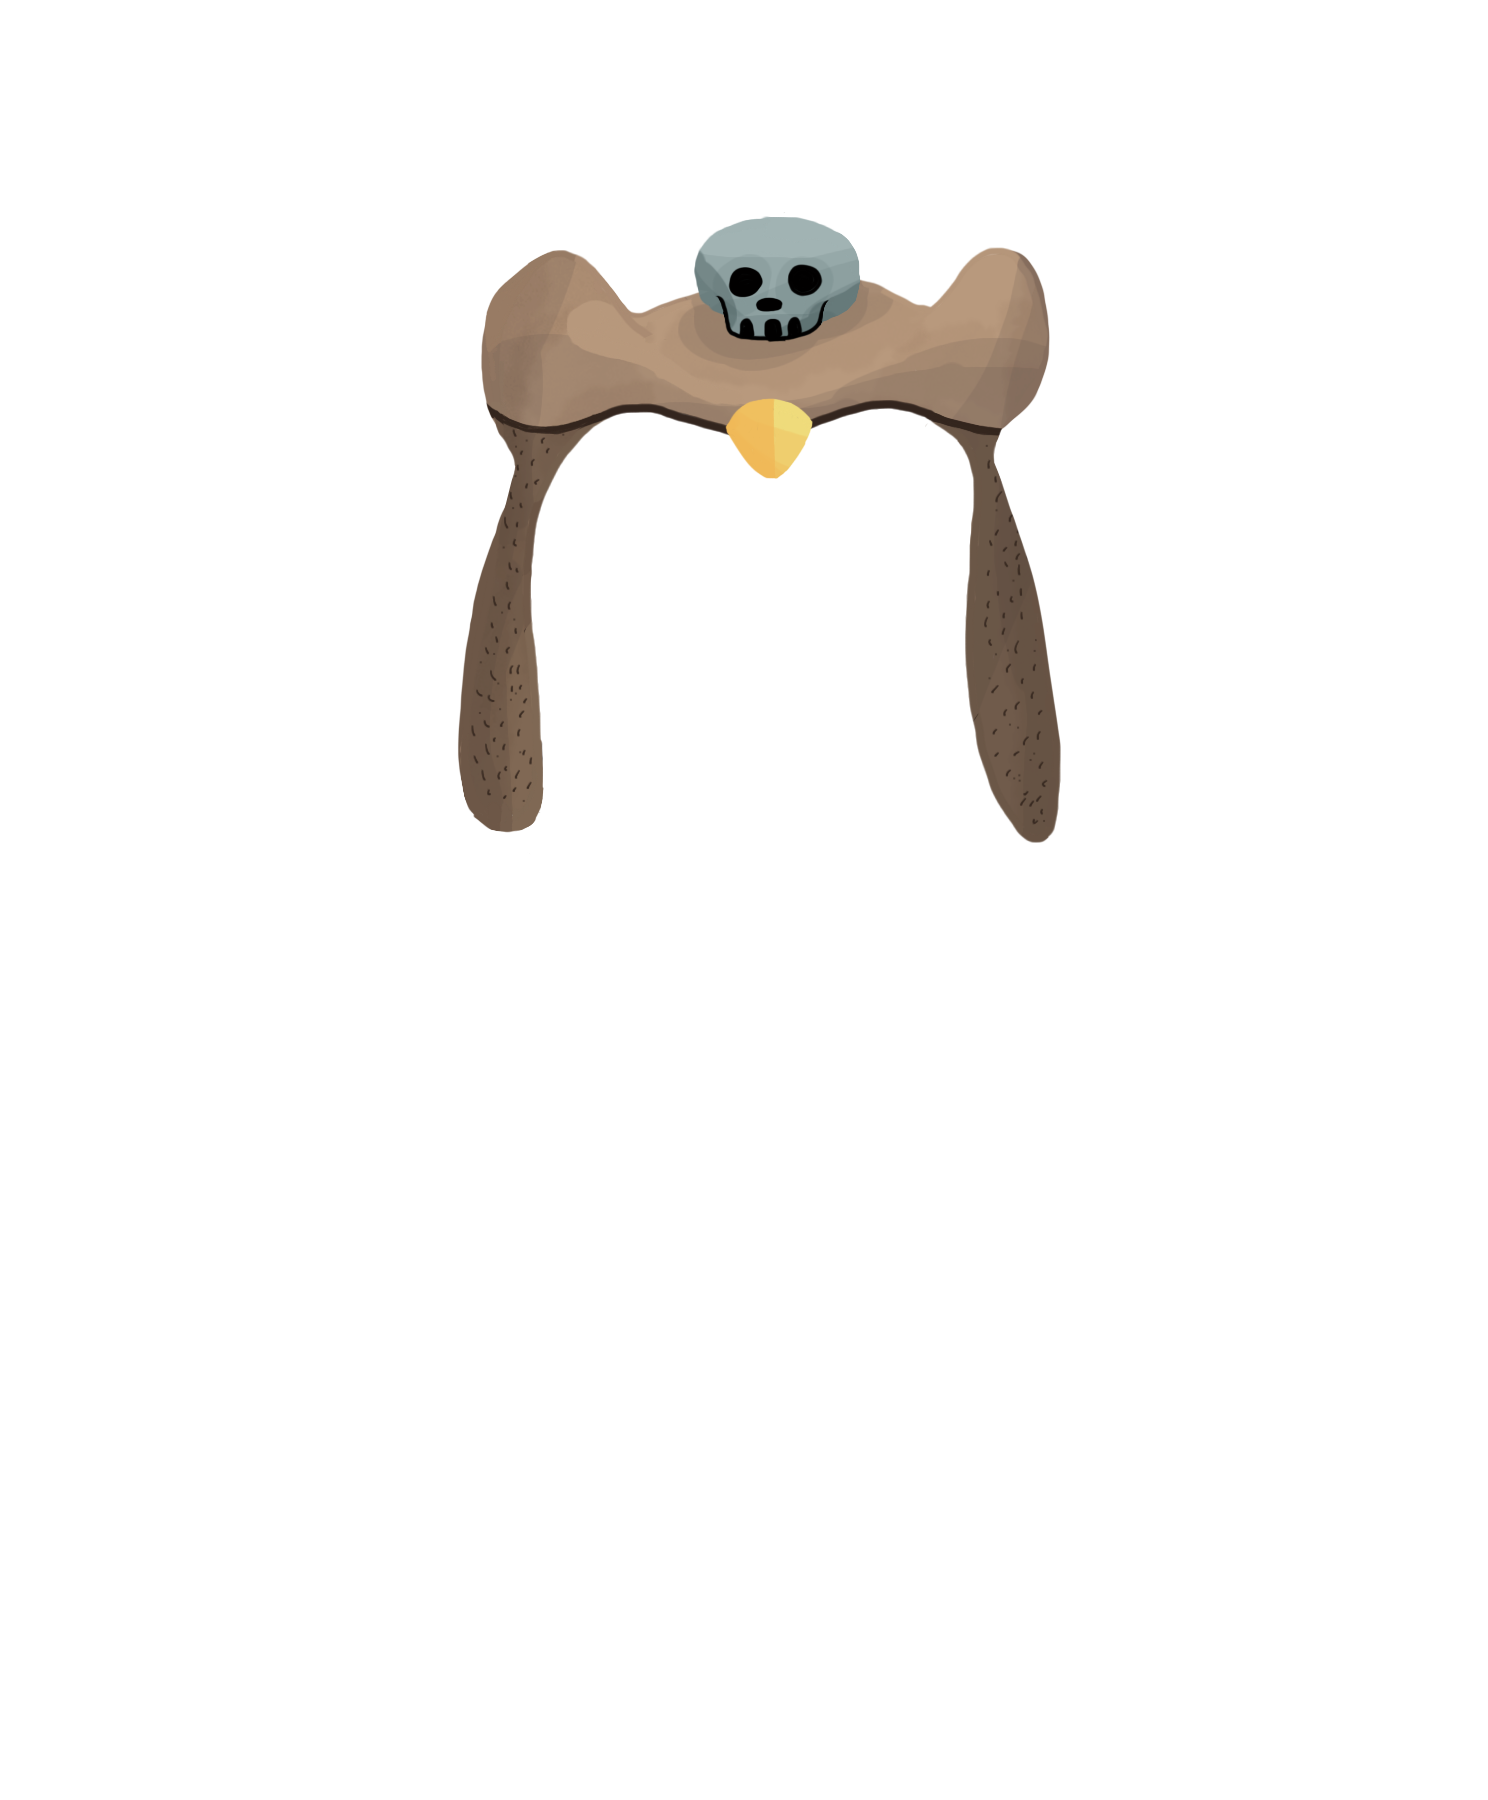
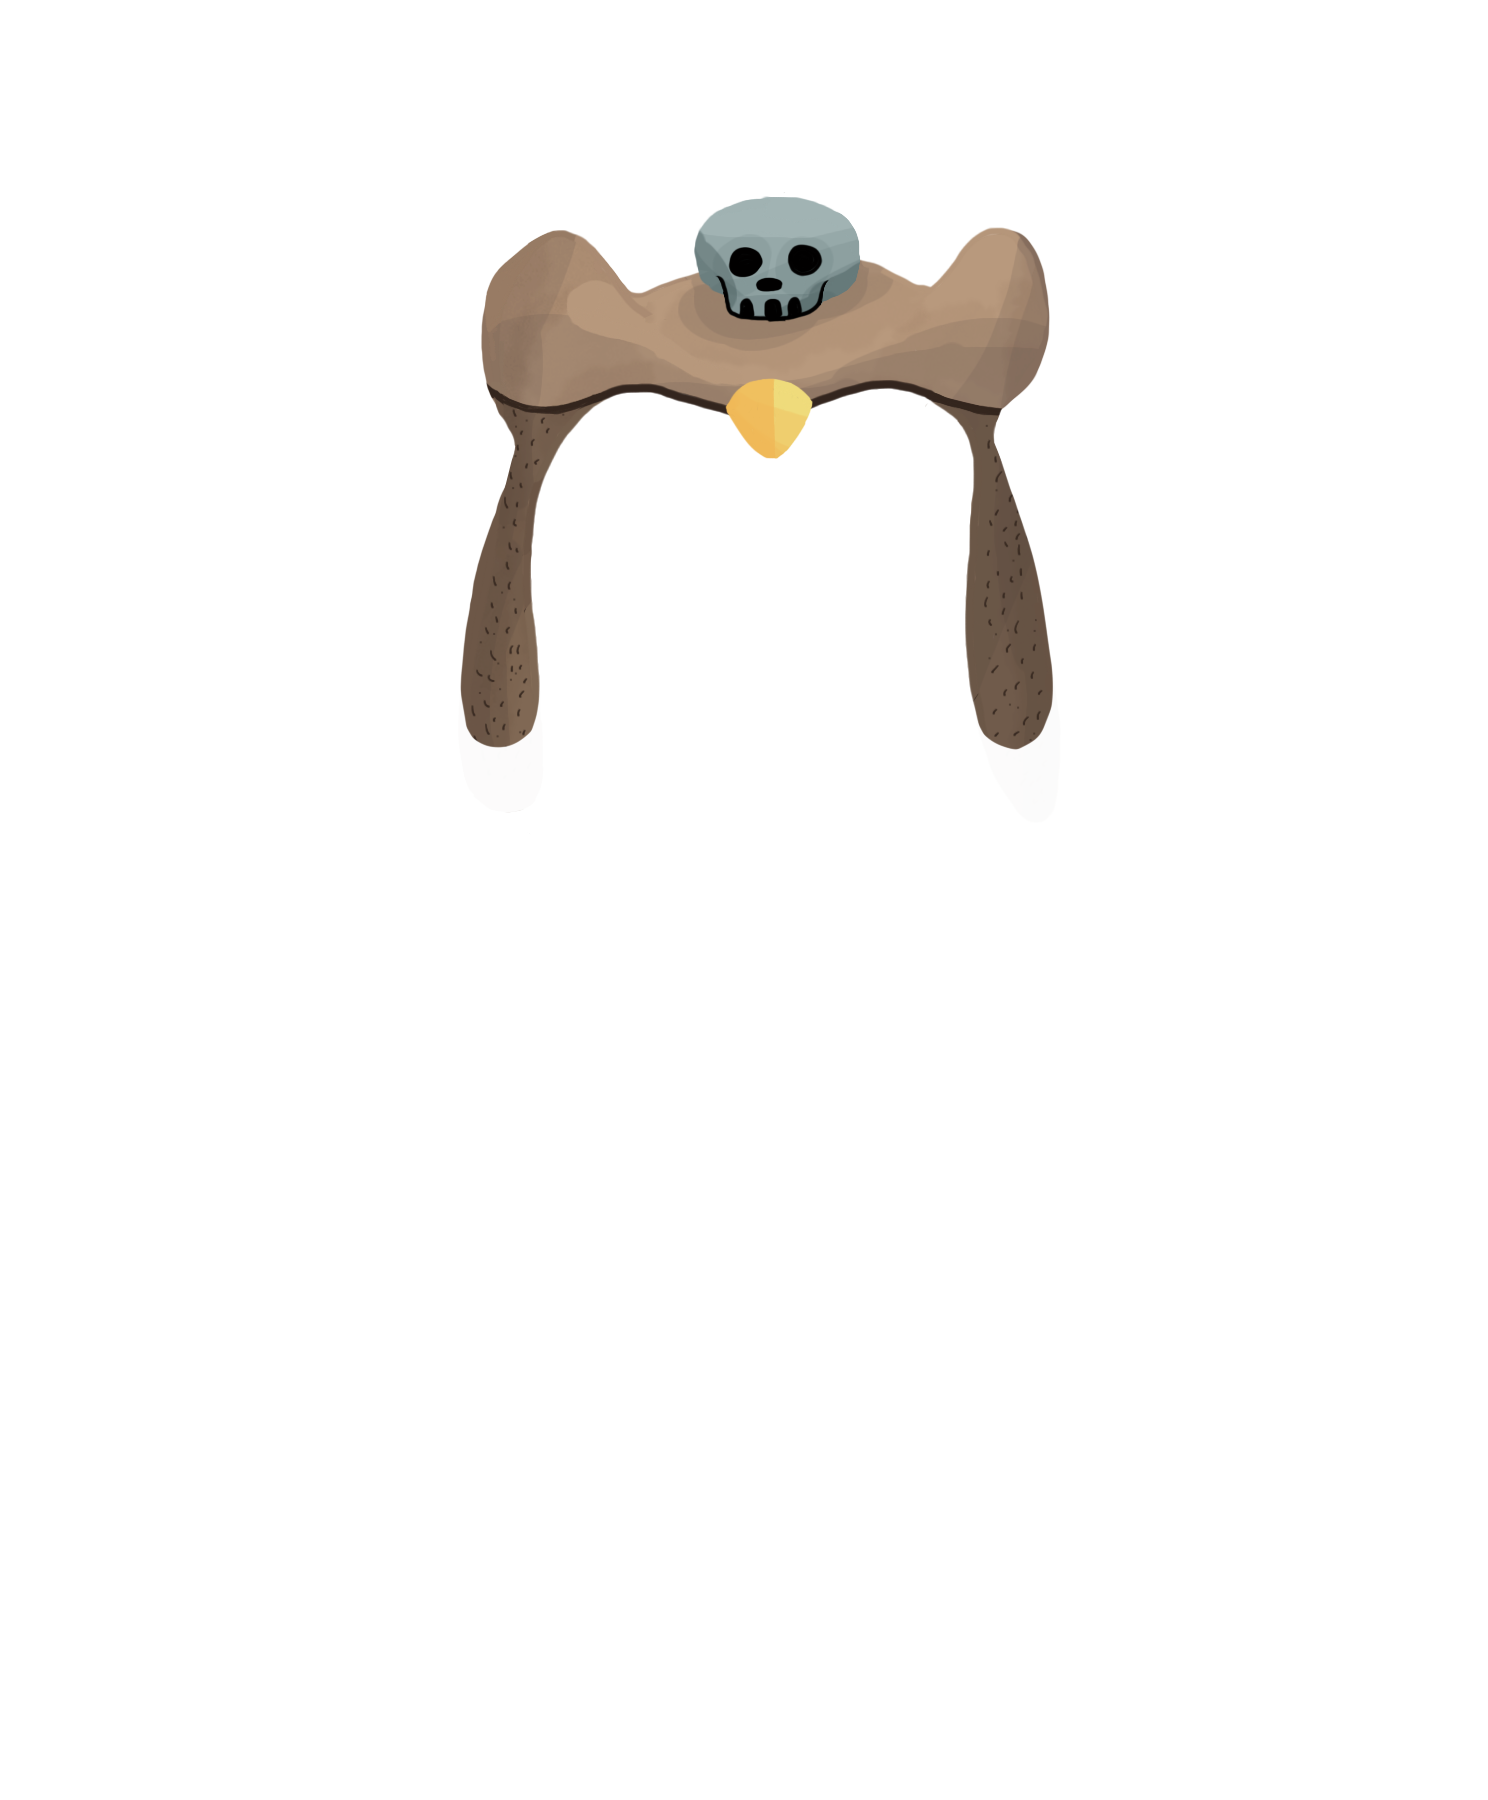
Add Snoop's hair

Changed region(s): [[0.3091, 0.0933, 0.711, 0.4667], [0.6492, 0.28, 0.711, 0.4667], [0.3091, 0.1556, 0.3401, 0.1867]]

diff --git a/2422.js b/2422.js
@@ -101,7 +101,8 @@ const losOsosSchema = {
                             asset: "./assets/eyes_heterochromatic.png",
                             chance: 10
                         },
-                    ]
+                    ],
+                    chance: 0.5,
                 },
                 { 
                     type: "options",
@@ -163,6 +164,7 @@ const losOsosSchema = {
                 { 
                     type: "options",
                     name: "Serious", 
+                    chance: 0.5,
                     options: [
                         { 
                             type: "front",
@@ -214,6 +216,7 @@ const losOsosSchema = {
                         "./assets/empty.png",
                         { image: "./assets/occupation_mecha_bear_lights.png", tint: true },
                     ],
+                    chance: 0.7,
                 },
                 { 
                     name: "Sabler scarf",
@@ -225,6 +228,7 @@ const losOsosSchema = {
                         { image: "./assets/occupation_sabler_monk.png", tint: false, },
                         { image: "./assets/occupation_sabler_monk_back.png", tint: false, },
                     ],
+                    chance: 0.8,
                 },
                 {
                     name: "The Hero",
@@ -234,6 +238,7 @@ const losOsosSchema = {
                         { image: "./assets/occupation_the_hero_back.png", level: -900 },
                         { image: "./assets/occupation_the_hero_horse.png", level: 900 },
                     ],
+                    chance: 0.3,
                 },
                 { 
                     name: "Singlet",
@@ -282,9 +287,10 @@ const losOsosSchema = {
                     name: "Bearstappen",
                     type: "dual",
                     assets: [ "./assets/occupation_racer.png", "./assets/occupation_racer_back.png" ],
+                    chance: 0.7,
                 },
                 {
-                    name: "Metabears United player",
+                    name: "Metabears United",
                     type: "dual",
                     assets: [ "./assets/occupation_mufc.png", "./assets/occupation_mufc_back.png" ],
                     chance: 0.4,
@@ -293,6 +299,7 @@ const losOsosSchema = {
                     name: "William Mapan hoodie",
                     type: "options",
                     level: 275,
+                    chance: 0.7,
                     options: [
                         {
                             type: "dual",
@@ -408,42 +415,13 @@ const losOsosSchema = {
                     ],
                 },
                 {
-                    name: "Jacket",
-                    type: "dual",
-                    tints: ["#3fb033", "#d12727", "#46e3ff", "#f5d10a" ],
-                    chance: 0,
-                    assets: [ 
-                        { image: "./assets/occupation_jacket.png", tint: true },
-                        { image: "./assets/occupation_jacket_back.png", tint: true },
-                        { image: "./assets/occupation_jacket_patches.png", tint: ["#9e7c5e" ] },
-                        "./assets/empty.png",
-                        { image: "./assets/occupation_jacket_thick_stripes.png", tint: ["#111111" ] },
-                        "./assets/empty.png",
-                        "./assets/occupation_jacket_zip.png",
-                    ],
-                },
-                {
                     name: "Shirt",
                     type: "dual",
-                    chance: 0,
+                    chance: 0.1,
                     assets: [ 
                         { image: "./assets/occupation_citizen1_for_tinting.png", tint: true, }, 
                         { image: "./assets/occupation_citizen1_back.png", tint: true, },
                         { image: "./assets/occupation_citizen1_buttons.png", tint: false, }
-                    ],
-                },
-                {
-                    name: "T-shirt",
-                    type: "options",
-                    chance: 0,
-                    options: [
-                        {
-                            type: "dual",
-                            assets: [ 
-                                { image: "./assets/occupation_tshirt_white.png", tint: true }, 
-                                { image: "./assets/occupation_creator_back.png", tint: true },
-                            ],
-                        },
                     ],
                 },
                 {
@@ -456,9 +434,8 @@ const losOsosSchema = {
                     ],
                 },
                 {
-                    type: "dual",
-                    chance: 0.9,
                     name: "Nudoru shirt",
+                    type: "dual",
                     tints: [ "#eeeae4", "#bee8f9", "#c1e2b8", "#ffdeca" ],
                     assets: [ 
                         { image: "./assets/occupation_citizen1_for_tinting.png", tint: true, }, 
@@ -512,6 +489,7 @@ const losOsosSchema = {
                         "./assets/empty.png",
                         "./assets/occupation_tshirt_white_lines.png",
                     ],
+                    chance: 0.5,
                 },
                 {
                     name: "OG t-shirt & Glomularus",
@@ -558,15 +536,27 @@ const losOsosSchema = {
                         { image: "./assets/occupation_creator_back.png", tint: true, }, 
                         "./assets/occupation_inefable_momento.png",
                     ],
+                    chance: 0.7,
                 },
                 {
                     name: "p5.js fan",
                     type: "dual",
                     tints: [ "#eeeae4" ],
+                    chance: 0.6,
                     assets: [ 
                         { image: "./assets/occupation_tshirt_white.png", tint: true, },
                         { image: "./assets/occupation_creator_back.png", tint: true, }, 
                         "./assets/occupation_p5js.png",
+                    ],
+                },
+                {
+                    name: "Santiago's PSA t-shirt",
+                    type: "dual",
+                    tints: [ "#04a30f" ],
+                    assets: [ 
+                        { image: "./assets/occupation_tshirt_white.png", tint: true, },
+                        { image: "./assets/occupation_creator_back.png", tint: true, }, 
+                        "./assets/occupation_santiago.png",
                     ],
                 },
                 {
@@ -587,9 +577,10 @@ const losOsosSchema = {
                     ],
                 },
                 {
-                    name: "Picasso",
+                    name: "Picasso playing with lights",
                     type: "dual",
                     tints: [ "#eeeae4" ],
+                    chance: 0.2,
                     assets: [ 
                         { image: "./assets/occupation_tshirt_white.png", tint: true, },
                         { image: "./assets/occupation_creator_back.png", tint: true, }, 
@@ -608,7 +599,7 @@ const losOsosSchema = {
                         "./assets/occupation_art_basel.png",
                         "./assets/empty.png", 
                         "./assets/occupation_tshirt_white_lines.png",
-                    ]
+                    ],
                 },
                 {
                     name: "VGA t-shirt",
@@ -651,6 +642,7 @@ const losOsosSchema = {
                         { image: "./assets/occupation_creator_back.png", tint: "#0000ff", }, 
                         { image: "./assets/occupation_p1xelfool.png" },
                     ],
+                    chance: 0.4,
                 },
                 {
                     name: "Three.js fan",
@@ -663,11 +655,12 @@ const losOsosSchema = {
                         "./assets/empty.png",
                         "./assets/occupation_tshirt_white_lines.png",
                         "./assets/empty.png",
-
+                        
                         { image: "./assets/occupation_jacket.png", tint: true },
                         { image: "./assets/occupation_jacket_back.png", tint: true },
                         "./assets/occupation_jacket_zip.png",
                     ],
+                    chance: 0.5,
                 },
                 {
                     name: "Horizontes t-shirt",
@@ -842,13 +835,22 @@ const losOsosSchema = {
                     ]
                 },
                 {
+                    name: "Snoop's hair",
+                    type: "front",
+                    assets: [
+                        "./assets/headwear_snoop.png",
+                        { image: "./assets/headwear_snoop_back.png", level: -55 },
+                    ],
+                    chance: 0.3,
+                },
+                {
                     name: "Stoopid DIY mask",
                     type: "dual",
                     assets: [
                         "./assets/headwear_stoopid_mask.png",
                         "./assets/headwear_stoopid_mask_back.png",
                     ],
-                    chance: 1000,
+                    chance: 0.3,
                     level: 850,
                 },
                 {
@@ -1032,7 +1034,7 @@ const losOsosSchema = {
                     chance: 0.5,
                 },
                 {
-                    name: "RIGHT CLICK SAVE Artnome headband", 
+                    name: "Artnome's RIGHT CLICK SAVE headband", 
                     type: "dual",
                     assets: [ "./assets/headwear_rcs.png", "./assets/headwear_artnome_back.png" ],
                     chance: 0.5,
@@ -1043,7 +1045,7 @@ const losOsosSchema = {
                     assets: ["./assets/headwear_clubnft.png", "./assets/headwear_headband_back.png" ],
                 },
                 {
-                    name: "ClubNFT Artnome headband", 
+                    name: "Artnome's ClubNFT headband", 
                     type: "dual",
                     assets: [ "./assets/headwear_clubnft.png", "./assets/headwear_artnome_back.png" ],
                 },
@@ -1073,7 +1075,7 @@ const losOsosSchema = {
                     ],
                 },
                 { 
-                    name: "Spiky punk", 
+                    name: "Spiky punk hairdo", 
                     asset: {
                         image: "./assets/headwear_blue_punk.png",
                         tint: true,
@@ -1086,7 +1088,7 @@ const losOsosSchema = {
                     assets: ["./assets/headwear_ryans_owl.png", "./assets/headwear_ryans_owl_back.png"],
                 },
                 { 
-                    name: "Mohawk punk", 
+                    name: "Mohawk punk hairdo", 
                     type: "options",
                     chance: 0.7,
                     options: [
@@ -1267,7 +1269,13 @@ const losOsosSchema = {
                 },
                 { 
                     name: "ykxotkx phantom mask", 
-                    asset: "./assets/eyewear_ykxotkx_mask.png",
+                    type: "front",
+                    assets: [ 
+                        "./assets/eyewear_ykxotkx_mask.png",
+                        "./assets/eyewear_ykxotkx_mask_cover.png",
+                    ],
+                    chance: 0.2,
+                    level: 255,
                 },
                 { 
                     name: "Aviator glasses", 
@@ -1312,16 +1320,15 @@ const losOsosSchema = {
                     }],
                 },
                 { 
-                    type: "front",
                     name: "Space glasses", 
-                    chance: 0.4,
+                    type: "front",
+                    chance: 0.6,
                     asset:  { 
                         image: "./assets/eyewear_space_glasses.png",
                         tint: true,
                     },
                 },
                 {
-                    type: "dual",
                     name: "Ninja band",
                     type: "dual",
                     tints: ["#2ec7ff", "#e21100", "#fbe105", "#8102d1"],
@@ -1340,14 +1347,15 @@ const losOsosSchema = {
                 },
                 { 
                     name: "Striped glasses", 
+                    type: "front",
                     asset: {
                         image: "./assets/eyewear_striped_glasses.png",
                         tint: true,
                     },
                 },
                 { 
-                    type: "dual",
                     name: "Monocle", 
+                    type: "dual",
                     assets: [ "./assets/eyewear_monocle.png", "./assets/eyewear_monocle_back.png" ],
                 },
             ],
@@ -1376,6 +1384,7 @@ const losOsosSchema = {
                     name: "Tezumie beard", 
                     asset: "./assets/mouth_tezumie_beard.png",
                     level: 250,
+                    chance: 0.5,
                 },
                 { 
                     name: "Elote", 
@@ -1391,12 +1400,22 @@ const losOsosSchema = {
                     asset: "./assets/mouth_zapata_mustache.png",
                 },
                 { 
+                    name: "Proof of People badge", 
+                    type: "front",
+                    assets: [ 
+                        "./assets/mouth_proof_of_people.png", 
+                        { image: "./assets/mouth_proof_of_people_back.png", level: -50 },
+                    ],
+                    chance: 0.4,
+                },
+                { 
                     name: "Tezzardz gold medal", 
                     type: "front",
                     assets: [ 
                         "./assets/mouth_tezzards_medal.png", 
                         { image: "./assets/mouth_tezzards_medal_back.png", level: -50 },
                     ],
+                    chance: 0.2,
                 },
                 { 
                     name: "Tender pass", 
@@ -1526,7 +1545,6 @@ const losOsosSchema = {
                     name: "Minting", 
                     type: "front",
                     assets: [ "./assets/mouth_tongue_out.png", "./assets/mouth_mint.png" ],
-                    chance: 1000,
                     level: 250,
                 },
             ],

diff --git a/README.md b/README.md
@@ -12,7 +12,7 @@ I took my sketchbook out to capture what I could and started drawing but my pres
 
 -- 
 
-Los Osos 2422 is a PFP art piece composed by 280 hand-made drawings made as an homage to the incipient generative art current fueled by Tezos blockchain technology in 2022. It features hundreds of references to artists and pieces in several generative and non-generative fields.
+Los Osos 2422 is a PFP art piece composed by 285 hand-made drawings made as an homage to the incipient generative art current fueled by Tezos blockchain technology in 2022. It features hundreds of references to artists and pieces in several generative and non-generative fields.
 
 The project combines the assets together using a custom open-source algorithm that allows them to be stacked with positioning in front and behind the character to create possibilities like shirt collars or hats, dynamic tinting to have hoodies or glasses with different colors, exceptions to give them lasser eyes or a green apple in front of the face, complex set-ups to have different versions for some of the outfits, and chance control to allow precise feature control.
 
